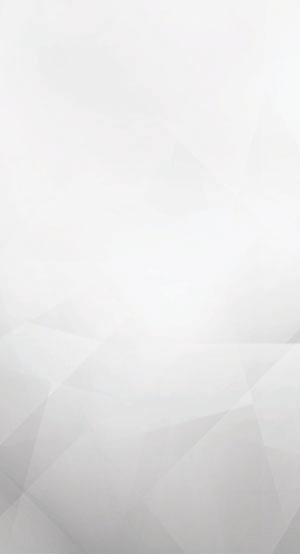
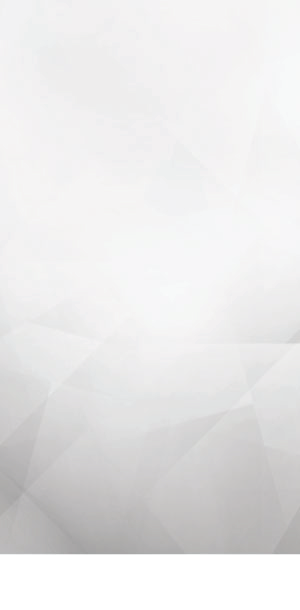
update oppo form

Changed region(s): [[0.0, 0.8285, 1.0, 1.0], [0.0, 0.7365, 0.09, 0.7978], [0.78, 0.7058, 0.84, 0.7365]]

diff --git a/blacked-kaskus-oppo-form/css/main.css b/blacked-kaskus-oppo-form/css/main.css
@@ -313,7 +313,8 @@ body {
     top: 0; }
   @media only screen and (max-width: 550px) {
     .oppo__canvas {
-      height: 600px; } }
+      height: 610px;
+      background-image: url(../images/bg-abu-wap.png); } }
   .oppo__canvas .graphic-design > div {
     position: absolute; }
   .oppo__canvas .graphic-design .circle-gradient-dark {
@@ -450,11 +451,13 @@ body {
     bottom: -10px; }
     @media only screen and (max-width: 550px) {
       .oppo__decoration .raisa {
-        width: 107px;
-        bottom: -30px; } }
+        display: none; } }
   .oppo__decoration .phone {
     bottom: 20px;
     right: 25px; }
+    @media only screen and (max-width: 550px) {
+      .oppo__decoration .phone {
+        display: none; } }
   .oppo__decoration .oppo-logo {
     bottom: 235px;
     left: 29px; }
@@ -476,6 +479,25 @@ body {
       bottom: 35px;
       left: 45px; } }
 
+.oppo__footer {
+  background-color: #fff;
+  height: 60px;
+  display: none;
+  width: 100%;
+  position: absolute;
+  bottom: 0; }
+  @media only screen and (max-width: 550px) {
+    .oppo__footer {
+      display: block; } }
+  .oppo__footer .raisa-wap {
+    width: 85px;
+    left: 30px;
+    bottom: 55px;
+    z-index: 2; }
+  .oppo__footer .phone-wap {
+    right: 30px;
+    bottom: 10px; }
+
 .logo-wrapper {
   width: 100%;
   height: 10%;
@@ -484,6 +506,10 @@ body {
 .kaskus-oppo-logo {
   display: inline-block;
   padding-top: 15px; }
+  @media only screen and (max-width: 550px) {
+    .kaskus-oppo-logo {
+      padding-top: 15px;
+      height: 44px; } }
 
 .bg-graphic {
   width: 100%;
@@ -548,7 +574,7 @@ body {
     width: 100%; }
   @media only screen and (max-width: 550px) {
     .form__container {
-      margin: 22px auto 0; } }
+      margin: 10px auto 0; } }
 
 .form__field {
   margin: 0 0 10px; }
@@ -660,6 +686,11 @@ body {
     @media only screen and (max-width: 550px) {
       .form__section.step-1 {
         padding-top: 90px; } }
+    @media only screen and (max-width: 550px) {
+      .form__section.step-1 button {
+        margin-top: 20px;
+        padding: 8px 85px;
+        margin-left: 0; } }
   .form__section.step-3 {
     padding-top: 80px; }
   .form__section img {
@@ -672,8 +703,8 @@ body {
     animation: zoomInOut 1s ease-in-out infinite alternate; }
     @media only screen and (max-width: 550px) {
       .form__section img {
-        width: 215px;
-        margin-left: 13px;
+        width: 230px;
+        margin-left: 0;
         -webkit-animation: none !important;
         -khtml-animation: none !important;
         -moz-animation: none !important;
@@ -711,7 +742,7 @@ body {
     @media only screen and (max-width: 550px) {
       .form__section button {
         font-size: 15px;
-        padding: 6px 52px; } }
+        margin-left: 0; } }
   .form__section h4 {
     font-family: VAGRoundedLight;
     color: #58595B;
@@ -722,7 +753,7 @@ body {
     @media only screen and (max-width: 550px) {
       .form__section h4 {
         font-size: 19px;
-        margin: -8px 0px 0 4px; } }
+        margin: 20px 0px 0 4px; } }
   .form__section h3 {
     font-family: VAGRoundedBold;
     color: #58595B;
@@ -741,7 +772,7 @@ body {
     font-size: 27px; }
     @media only screen and (max-width: 550px) {
       .form__section h2 {
-        font-size: 20px; } }
+        font-size: 23px; } }
   .form__section h1 {
     font-family: VAGRoundedBold;
     color: #58595B;
@@ -749,10 +780,13 @@ body {
     font-size: 27px; }
     @media only screen and (max-width: 550px) {
       .form__section h1 {
-        font-size: 20px; } }
+        font-size: 25px; } }
   .form__section .form__container button {
     margin-left: 0;
     margin-top: 10px; }
   .form__section .form__container img {
     width: 150px;
     margin: 0 0 15px; }
+    @media only screen and (max-width: 550px) {
+      .form__section .form__container img {
+        width: 130px; } }

diff --git a/blacked-kaskus-oppo-form/styles/_style.scss b/blacked-kaskus-oppo-form/styles/_style.scss
@@ -36,7 +36,8 @@ body{
 			top: 0;
 		}
 		@media only screen and (max-width:550px){
-        	height: 600px;
+        	height: 610px;
+        	background-image: url(../images/bg-abu-wap.png);
     	}
     	.graphic-design{
     		>div{
@@ -168,13 +169,15 @@ body{
 			z-index: 2;
     		bottom: -10px;
     		@media only screen and (max-width:550px){
-	        	width: 107px;
-	        	bottom: -30px;
+	        	display: none;
 	    	}
 		}
 		.phone{
 			bottom: 20px;
 			right: 25px;
+			@media only screen and (max-width:550px){
+	        	display: none;
+	    	}
 		}
 		.oppo-logo{
 			bottom: 235px;
@@ -203,6 +206,27 @@ body{
 			}
 		}
 	}
+	&__footer{
+		background-color: #fff;
+		height: 60px;
+		display: none;
+		width: 100%;
+		position: absolute;
+		bottom: 0;
+		@media only screen and (max-width:550px){
+        	display: block;
+    	}
+    	.raisa-wap{
+    		width: 85px;
+    		left: 30px;
+    		bottom: 55px;
+    		z-index: 2;
+    	}
+    	.phone-wap{
+    		right: 30px;
+    		bottom: 10px;
+    	}
+	}
 }
 .logo-wrapper{
 	width: 100%;
@@ -214,6 +238,10 @@ body{
 	// left: 185px;
 	display: inline-block;
     padding-top: 15px;
+    @media only screen and (max-width:550px){
+    	padding-top: 15px;
+    	height: 44px
+	}
 }
 .bg-graphic{
 	width: 100%;
@@ -269,7 +297,7 @@ body{
     		width: 100%;
     	}
     	@media only screen and (max-width:550px){
-			margin: 22px auto 0;
+			margin: 10px auto 0;
 		}
 	}
 	&__field{
@@ -353,6 +381,13 @@ body{
 			@media only screen and (max-width:550px){
 			    padding-top: 90px;
     		}
+    		button{
+    			@media only screen and (max-width:550px){
+					margin-top: 20px;
+	    			padding: 8px 85px;
+	    			margin-left: 0;
+    			}
+    		}
 	    }
 	    &.step-2{
 			
@@ -364,8 +399,8 @@ body{
 			margin-left: 12px;
 			@include animation(zoomInOut 1s ease-in-out infinite alternate);
 			@media only screen and (max-width:550px){
-			    width: 215px;
-			    margin-left: 13px;
+			    width: 230px;
+			    margin-left: 0;
 			    @include animation(none!important);
     		}
 		}
@@ -388,7 +423,7 @@ body{
 			}
 			@media only screen and (max-width:550px){
 				font-size: 15px;
-    			padding: 6px 52px;
+    			margin-left: 0;
     		}
 		}
 		h4{
@@ -400,7 +435,7 @@ body{
     		margin: 20px 0px 0 11px;
     		@media only screen and (max-width:550px){
 				font-size: 19px;
-				margin: -8px 0px 0 4px;
+				margin: 20px 0px 0 4px;
     		}
 		}
 		h3{
@@ -421,7 +456,7 @@ body{
     		margin: 0;
     		font-size: 27px;
     		@media only screen and (max-width:550px){
-				font-size: 20px;
+				font-size: 23px;
     		}
 		}
 		h1{
@@ -430,7 +465,7 @@ body{
 			margin: 30px 0 0;
 			font-size: 27px;
 			@media only screen and (max-width:550px){
-				font-size: 20px;
+				font-size: 25px;
     		}
 		}
 		.form__container{
@@ -441,6 +476,9 @@ body{
     		img{
     			width: 150px;
     			margin: 0 0 15px;
+    			@media only screen and (max-width:550px){
+		        	width: 130px;
+		    	}
     		}
     	}
 	}

diff --git a/blacked-kaskus-oppo-form/index.html b/blacked-kaskus-oppo-form/index.html
@@ -47,13 +47,17 @@
 			</div>
 			<div class="form__section step-3" style="display: none;">
 				<img src="images/perfect-story.png">
-				<h1>THANK YOU GAN</h1>
+				<h1>THANK YOU GAN!</h1>
 				<h2>Semoga menang!</h2>
 			</div>
 		</div>
 		<div class="oppo__decoration">
 			<img class="absolute raisa" src="images/raisa.png">
 			<img class="absolute phone" src="images/phone.png">
+		</div>
+		<div class="oppo__footer" >
+			<img class="absolute raisa-wap" src="images/raisa.png">
+			<img class="absolute phone-wap" src="images/footer-wap.png">
 		</div>
 	</div>
 	<script src="scripts/main.js"></script>
